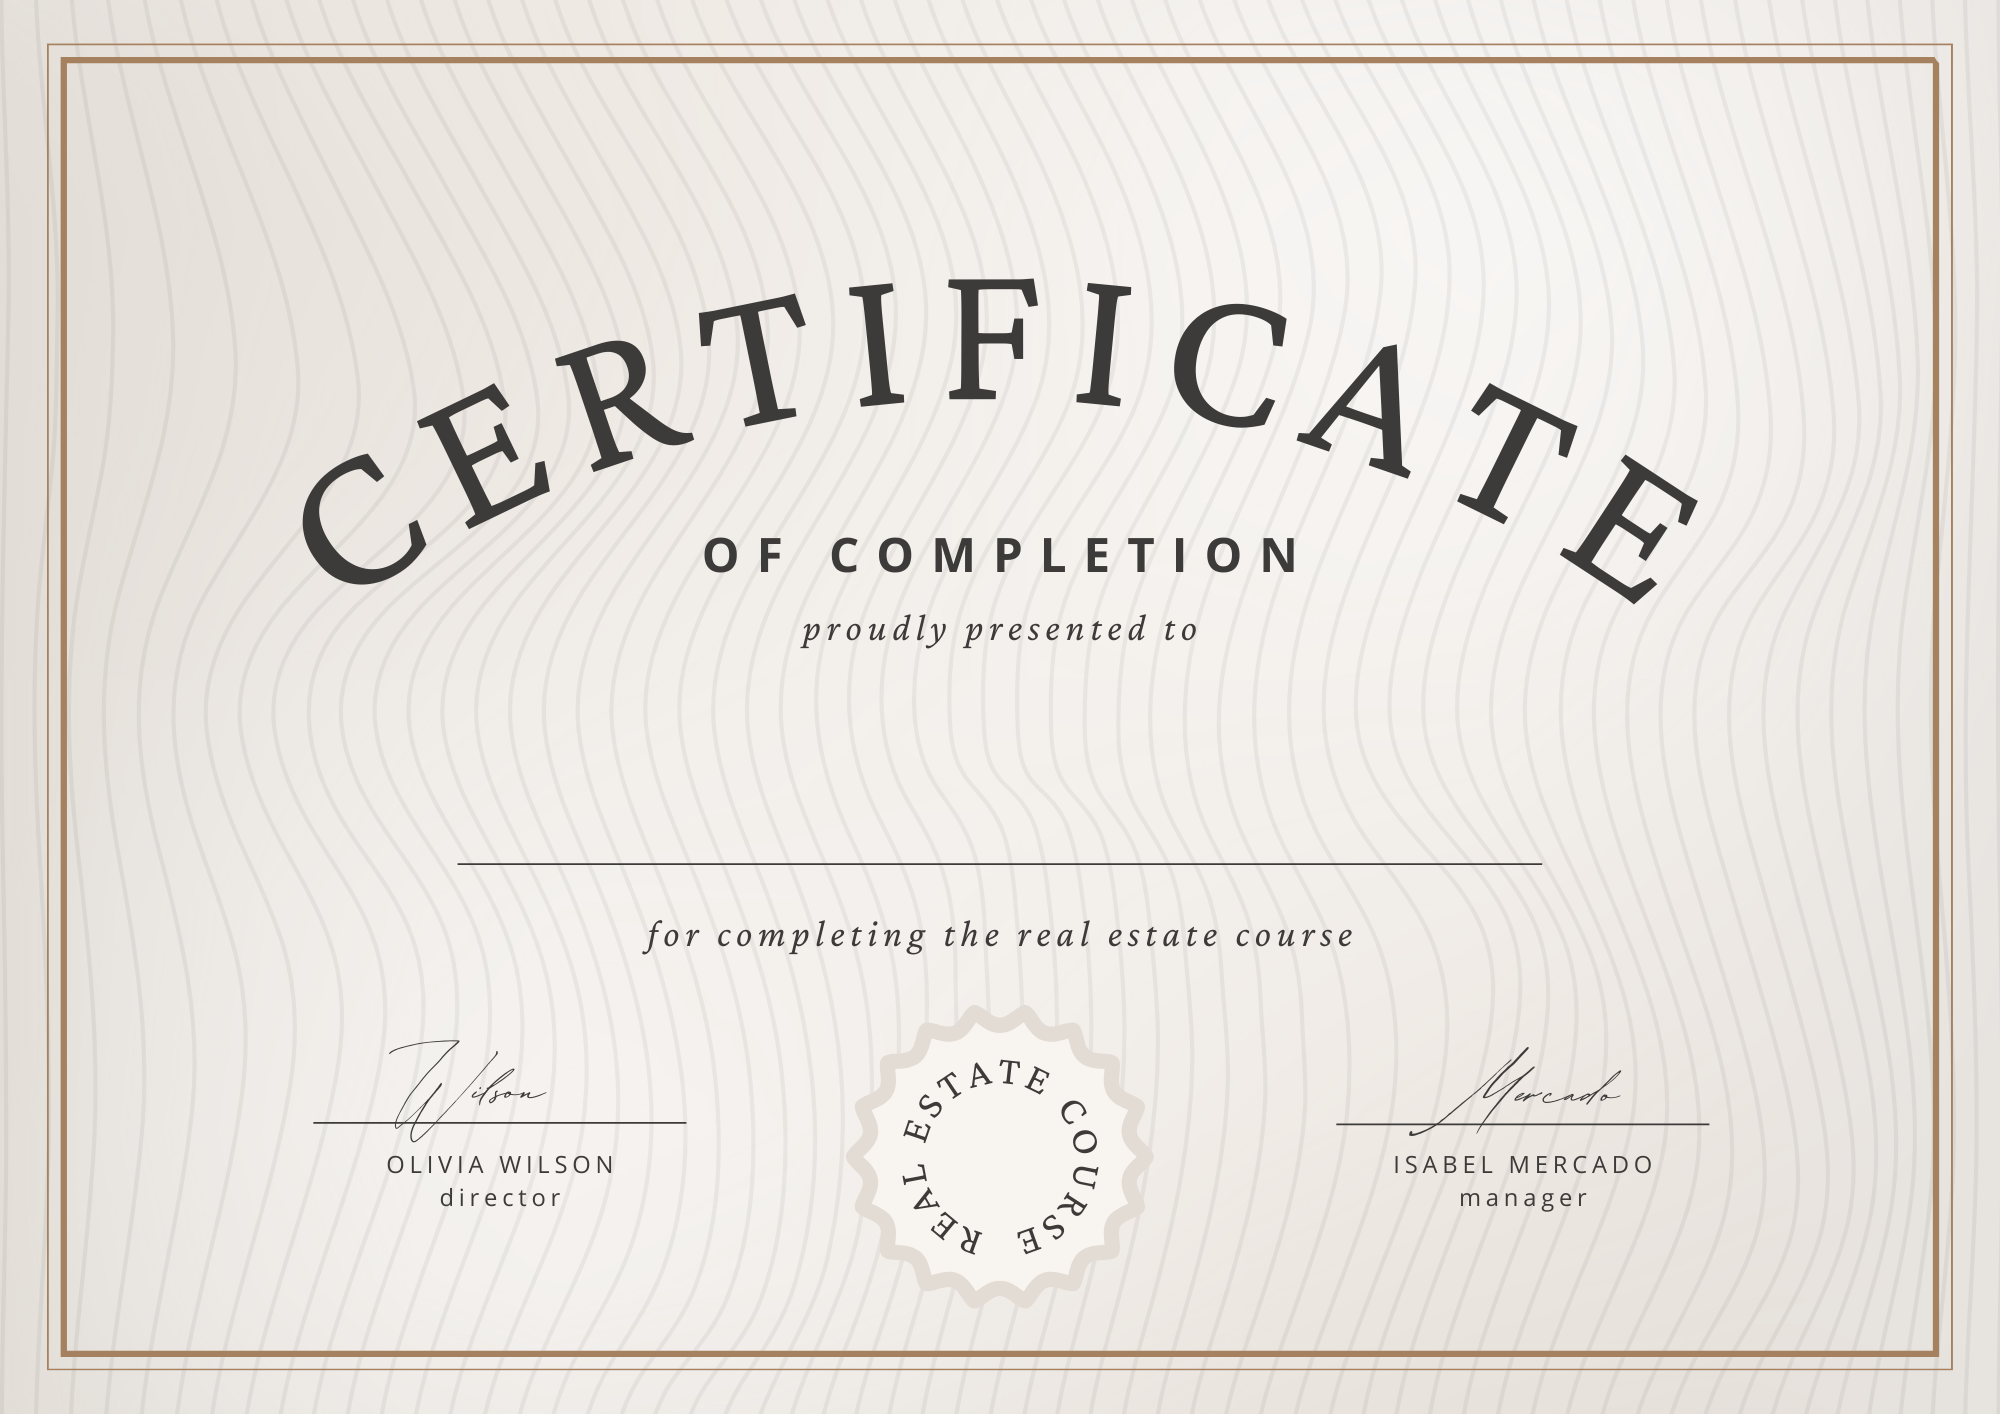
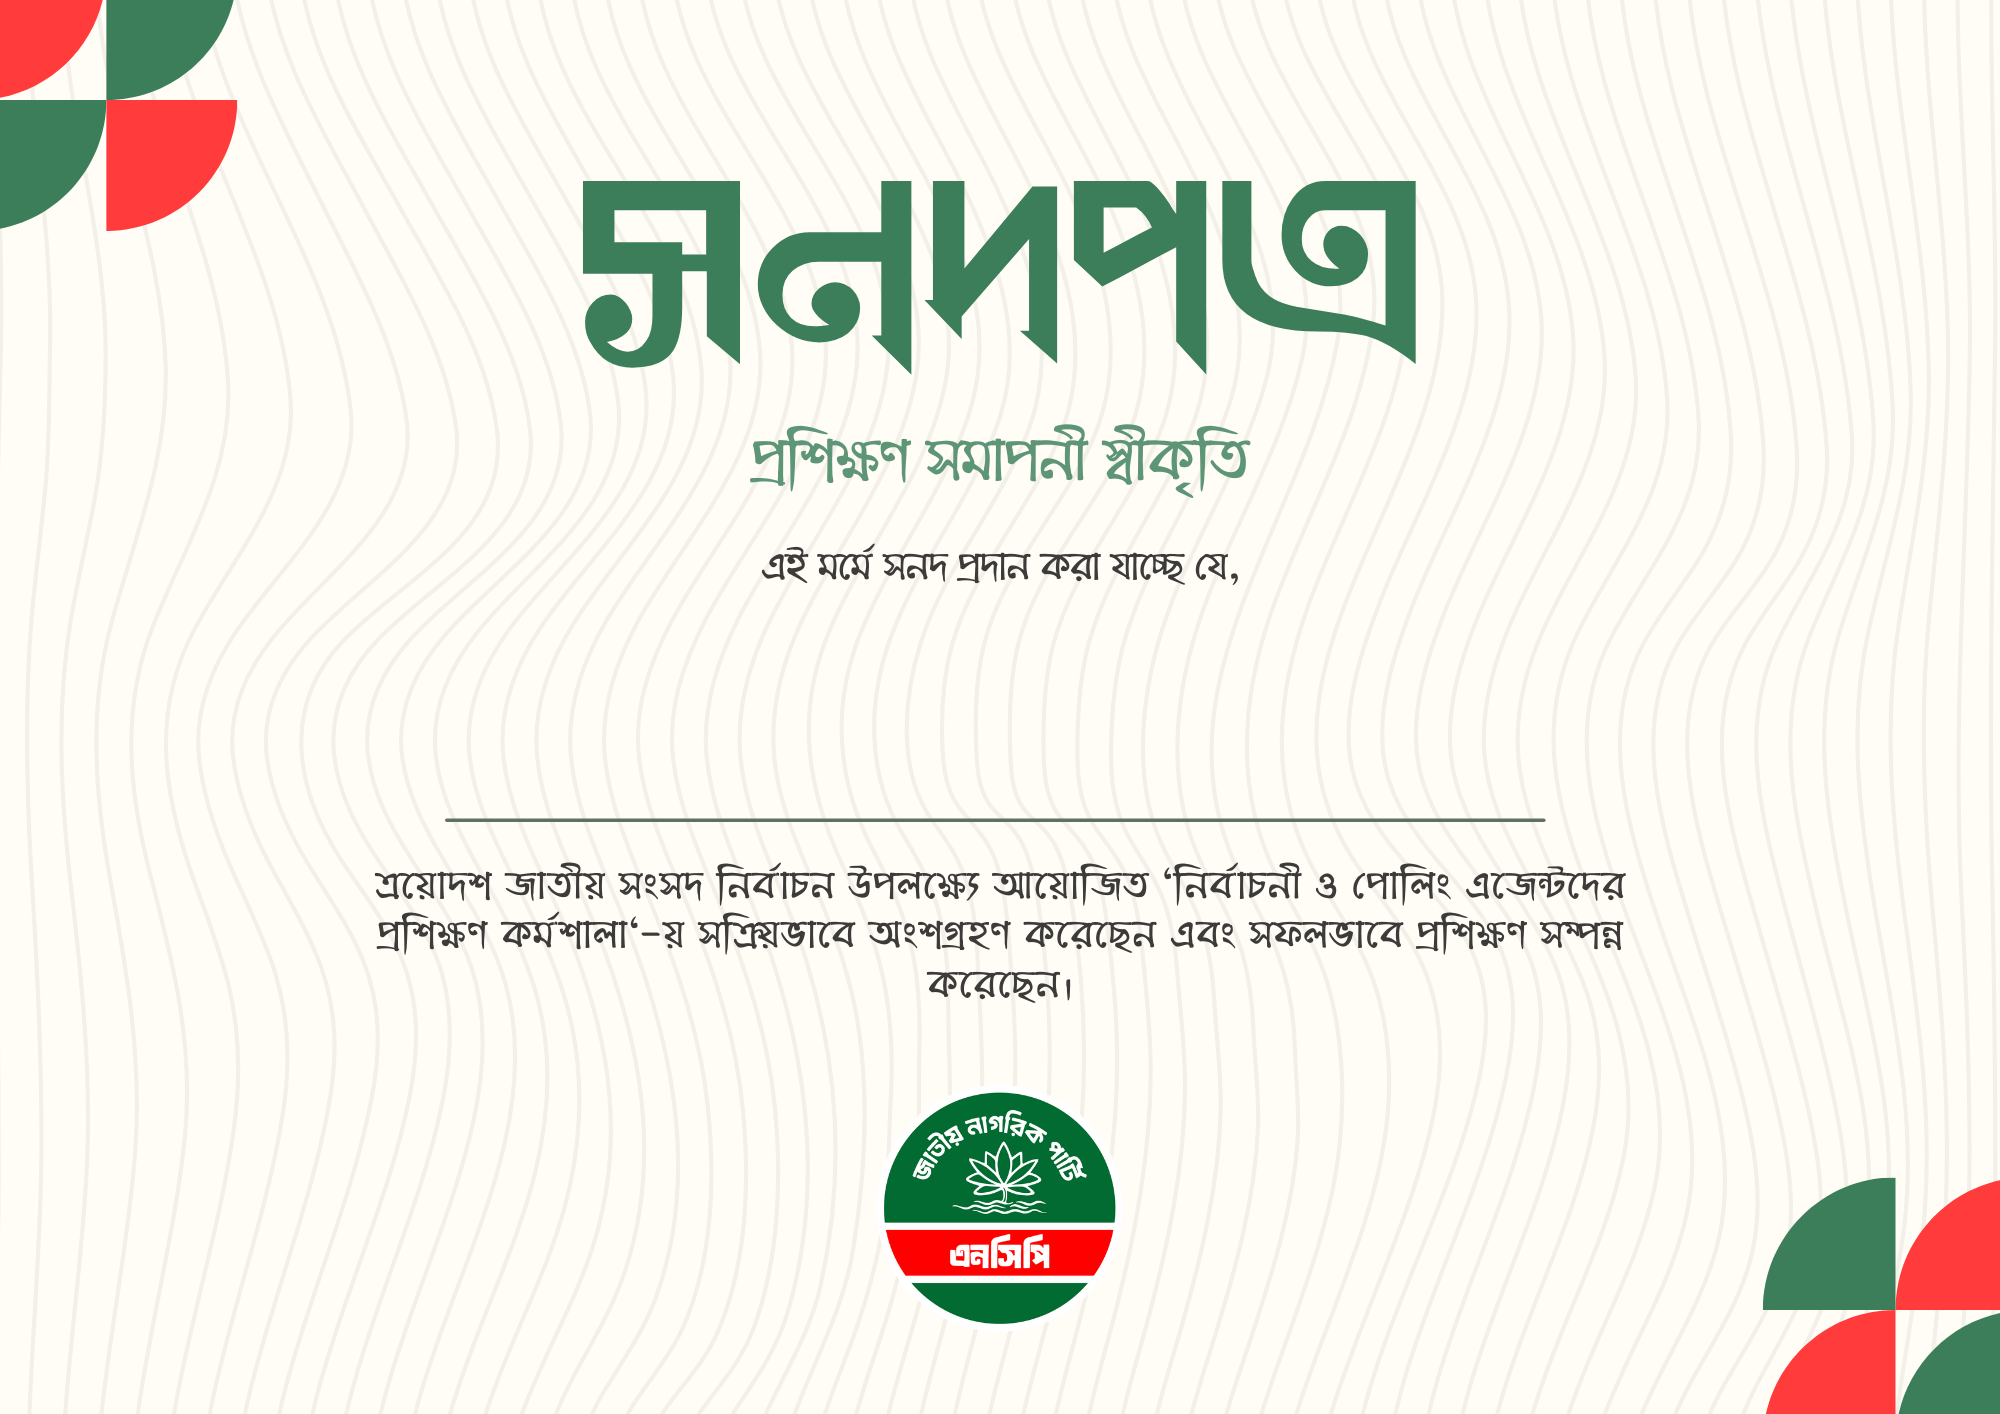
Update certificate generation and UI text
Changed certificate name color to Bangladesh green and adjusted its position. Added certificate ID rendering to the certificate image. Updated Bangla instructional text in video-7. Replaced certificate image with a new version.

diff --git a/app/congratulations/page.tsx b/app/congratulations/page.tsx
@@ -121,7 +121,7 @@ export default function CongratulationsPage() {
     if (userName) {
       generateCertificate(false);
     }
-  }, [userName]);
+  }, [userName, certId]);
 
   const generateCertificate = async (forDownload: boolean) => {
     if (!userName) return;
@@ -155,12 +155,22 @@ export default function CongratulationsPage() {
 
       // Configure text style
       ctx.font = "120px 'Galada', cursive"; 
-      ctx.fillStyle = "#1e40af"; // Dark blue color for the name
+      ctx.fillStyle = "#006A4E"; // Bangladesh green color for the name
       ctx.textAlign = "center";
       ctx.textBaseline = "middle";
 
       // Draw the name in the middle
-      ctx.fillText(userName, img.width / 2, img.height / 2 + 80);
+      ctx.fillText(userName, img.width / 2, img.height / 2 + 10);
+
+      // Draw certificate ID in bottom left corner
+      if (certId) {
+        ctx.font = "16px Arial, sans-serif";
+        ctx.fillStyle = "#666666"; // Gray color for the ID
+        ctx.textAlign = "left";
+        ctx.textBaseline = "bottom";
+        const padding = 20;
+        ctx.fillText(`Certificate ID: ${certId}`, padding, img.height - padding);
+      }
 
       const dataUrl = canvas.toDataURL('image/png');
       

diff --git a/app/video-7/page.tsx b/app/video-7/page.tsx
@@ -223,7 +223,7 @@ export default function Video7Page() {
                 <div className="p-4 rounded-xl bg-amber-50 border border-amber-100 flex items-start gap-3">
                   <Award className="w-5 h-5 text-amber-600 flex-shrink-0 mt-0.5" />
                   <p className="text-xs text-amber-800 leading-relaxed font-medium">
-                    এই মডিউলটি শেষ করলে আপনার সার্টিফিকেট অটোমেটিক্যালি জেনারেট হয়ে যাবে।
+                    এই মডিউলটি শেষ করলে আপনার সার্টিফিকেট স্বয়ংক্রিয়ভাবে প্রস্তুত হবে।
                   </p>
                 </div>
               </div>
